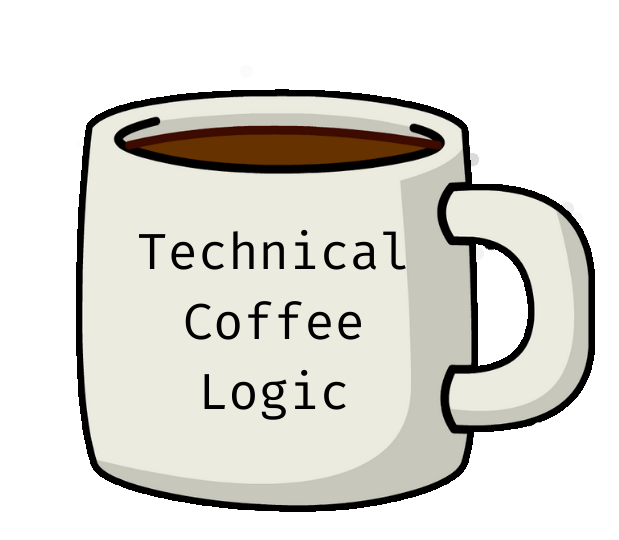
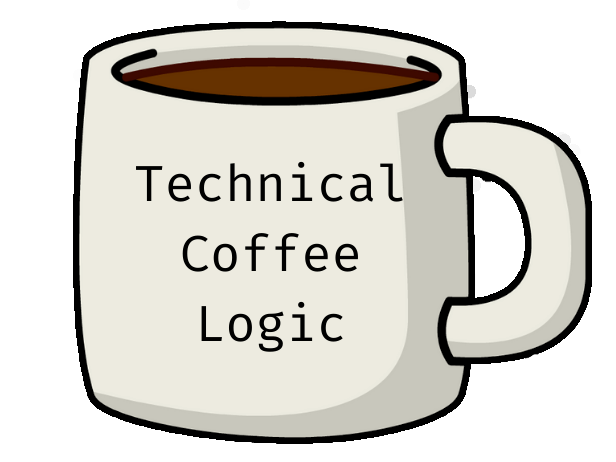
updated the way home image display for lg screen

Changed region(s): [[0.0925, 0.0303, 0.987, 0.9697], [0.6477, 0.7273, 0.6786, 0.7879], [0.6169, 0.7879, 0.6477, 0.8485]]

diff --git a/src/components/Home.vue b/src/components/Home.vue
@@ -1,7 +1,6 @@
 <script setup>
 import FeatureSection from './FeatureSection.vue';
 import ContactBlock from './ContactBlock.vue';
-import { ChevronRightIcon } from '@heroicons/vue/solid'
 
 const navigation = [
   { name: 'Product', href: '#' },
@@ -30,7 +29,7 @@ const navigation = [
               </div>
             </div>
             <div class="mt-12 -mb-16 sm:-mb-48 lg:m-0 lg:relative">
-              <div class="mx-auto max-w-md px-4 sm:max-w-2xl sm:px-6 lg:max-w-none lg:px-0">
+              <div class="mx-auto max-w-md px-4 sm:max-w-2xl sm:px-6 sm:pb-60 lg:max-w-none lg:px-0">
                 <!-- Illustration taken from Lucid Illustrations: https://lucid.pixsellz.io/ -->
                 <img class="w-full lg:absolute lg:inset-y-0 lg:left-0 lg:h-full lg:w-auto lg:max-w-none" src="../../public/TCLCoffeeCupOutline.png" alt="" />
               </div>

diff --git a/src/App.vue b/src/App.vue
@@ -20,7 +20,4 @@ import NavMenu from './components/NavMenu.vue';
 
 }
 
-body {
-    /* background-color: #f8f8f8; */
-}
 </style>
